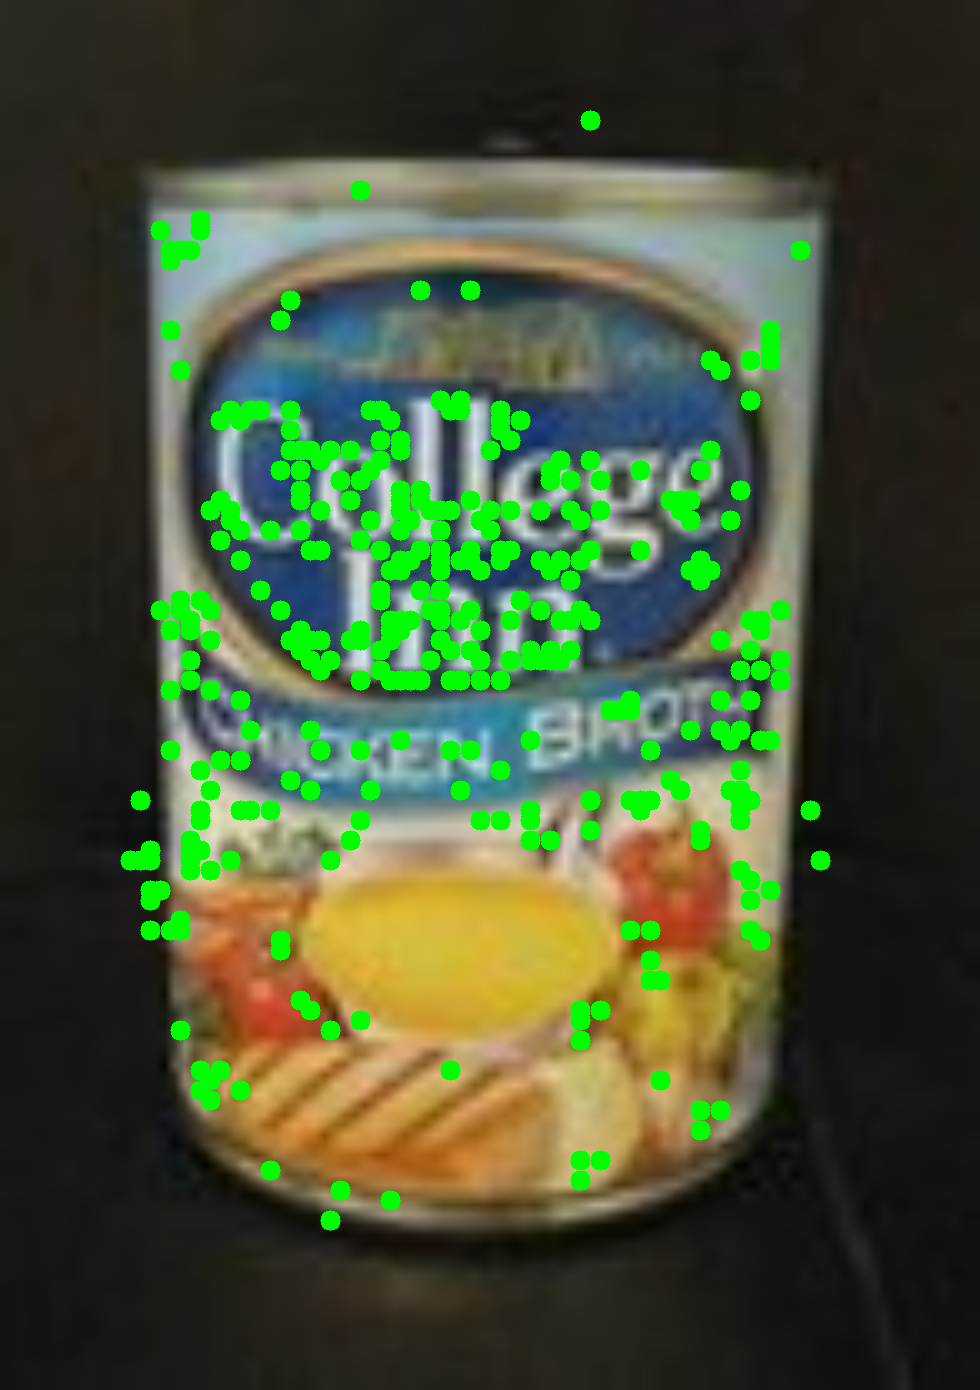
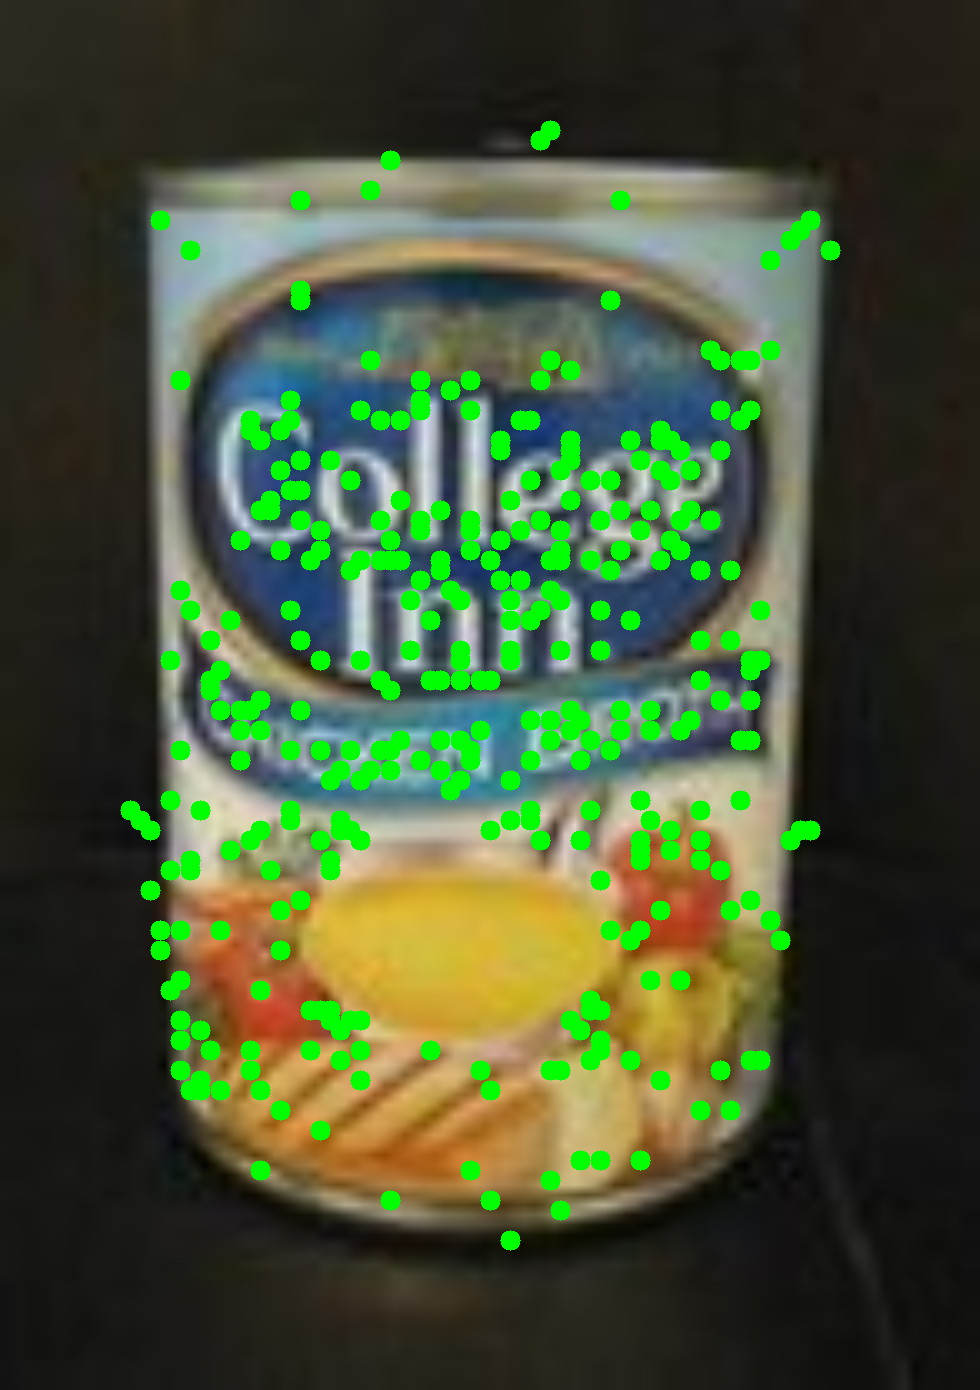
26 neighbours to 8 points in extrema detection

diff --git a/Assignments/HW2/code/keypointDetect.py b/Assignments/HW2/code/keypointDetect.py
@@ -81,7 +81,7 @@ def computePrincipalCurvature(DoG_pyramid):
     
     [output]
     * principal_curvature - size (imH, imW, len(levels) - 1) matrix where each 
-    point contains the curvature ratio R for the corresponding point in the DoG pyramid
+      point contains the curvature ratio R for the corresponding point in the DoG pyramid
     '''
 
     height, width, channels = DoG_pyramid.shape
@@ -118,52 +118,44 @@ def getLocalExtrema(DoG_pyramid, DoG_levels, principal_curvature, th_contrast=0.
     * DoG_levels - The levels of the pyramid where the blur at each level is outputs
     * principal_curvature - size (imH, imW, len(levels) - 1) matrix contains the curvature ratio R
     * th_contrast - Remove any point that is a local extremum but does not have a
-    DoG response magnitude above this threshold
+      DoG response magnitude above this threshold
     * th_r - Remove any edge-like points that have too large a principal curvature ratio
      
     [output]
     * locsDoG - N x 3 matrix where the DoG pyramid achieves a local extrema in both
-    scale and space, and also satisfies the two thresholds
+      scale and space, and also satisfies the two thresholds
     '''
     
     H, W, C = DoG_pyramid.shape
     locsDoG = []
-    kernel = 3
     
-    for level in range(1, C-1):
-        for x in range(0, H-kernel+1):
-            for y in range(0, W-kernel+1):
-                # Current pixel or center pixel of the kernel
-                cx, cy = (2*x + kernel-1)//2, (2*y + kernel-1)//2
-                
-                # Compare principal curvature ratio
-                if abs(principal_curvature[cx, cy, level]) > th_r: continue
+    for level in range(0, C):
+        for x in range(0, H):
+            for y in range(0, W):
+                # Check principal curvature ratio
+                if abs(principal_curvature[x, y, level]) > th_r: continue
                 
                 # Get scale-space neighbours
-                neighbours = DoG_pyramid[x:x+kernel, y:y+kernel, level-1:level+2]
-                
-                # Extrema positions
-                arg_max = np.unravel_index(np.argmax(neighbours), neighbours.shape) + np.asarray((x, y, level-1))
-                arg_min = np.unravel_index(np.argmin(neighbours), neighbours.shape) + np.asarray((x, y, level-1))
+                neighbours = DoG_pyramid[x-1*int(x>0):x+2*int(x<H), y-1*int(y>0):y+2*int(y<W), level].flatten()
+                neighbours = np.concatenate([neighbours, DoG_pyramid[x, y, level-1*int(level>0):level+2**int(level<C)]])
                 
                 # Check if current pixel is an extrema
-                if ((arg_max[0] != cx) and (arg_max[1] != cy) and (arg_max[2] != level)) \
-                or ((arg_min[0] != cx) and (arg_min[1] != cy) and (arg_min[2] != level)): continue
+                if (np.max(neighbours) != DoG_pyramid[x, y, level]) \
+                and (np.min(neighbours) != DoG_pyramid[x, y, level]): continue
 
-                # Compare contrast ratio
-                if (not abs(DoG_pyramid[cx, cy, level]) > th_contrast): continue
+                # Check contrast ratio
+                if (not abs(DoG_pyramid[x, y, level]) > th_contrast): continue
 
                 # Add this point of interest
                 # TODO: Swap x and y??
-                locsDoG.append([cx, cy, level])
+                locsDoG.append([x, y, level])
 
     locsDoG = np.asarray(locsDoG)
     print(locsDoG.shape)
     return locsDoG
 
-def displayPoints(img, locsDoG):
+def displayPoints(img, locsDoG, factor=10, fname=None):
     # Resize for better display
-    factor = 10
     img = cv2.resize(img, None, fx=factor, fy=factor)
     
     # Draw the interest points
@@ -171,65 +163,69 @@ def displayPoints(img, locsDoG):
         color = (int(level==1)*255, int(level==2)*255, int(level==3)*255)
         img = cv2.circle(img, (y*factor, x*factor), factor, (0, 255, 0), -1)
     
+    if fname: cv2.imwrite(fname, img)
     displayImage(img)
 
 def DoGdetector(im, sigma0=1, k=np.sqrt(2), levels=[-1, 0, 1, 2, 3, 4], th_contrast=0.03, th_r=12):
     '''
     Putting it all together
 
-    
-    Inputs          Description
-    --------------------------------------------------------------------------
-    im              Grayscale image with range [0,1].
+    [input]    
+    * im - Grayscale image with range [0, 1]
+    * sigma0 - Scale of the 0th image pyramid
+    * k - Pyramid factor (sqrt(2))
+    * levels - Levels of pyramid to construct (-1:4)
+    * th_contrast - DoG contrast threshold (0.03)
+    * th_r - Principal Ratio threshold (12)
 
-    sigma0          Scale of the 0th image pyramid.
-
-    k               Pyramid Factor.  Suggest sqrt(2).
-
-    levels          Levels of pyramid to construct. Suggest -1:4.
-
-    th_contrast     DoG contrast threshold.  Suggest 0.03.
-
-    th_r            Principal Ratio threshold.  Suggest 12.
-
-
-    Outputs         Description
-    --------------------------------------------------------------------------
-
-    locsDoG         N x 3 matrix where the DoG pyramid achieves a local extrema
-                    in both scale and space, and satisfies the two thresholds.
-
-    gauss_pyramid   A matrix of grayscale images of size (imH,imW,len(levels))
+    [output]
+    * locsDoG - N x 3 matrix where the DoG pyramid achieves a local extrema 
+      in both scale and space, and satisfies the two thresholds
+    * gauss_pyramid - A matrix of grayscale images of size (H, W, len(levels))
     '''
+
+    # Get gaussian pyramid
+    gauss_pyramid = createGaussianPyramid(im, sigma0, k, levels)
+
+    # Get DoG pyramid
+    DoG_pyr, DoG_levels = createDoGPyramid(gauss_pyramid, levels)
+    
+    # Compute principal curvature
+    pc_curvature = computePrincipalCurvature(DoG_pyr)
+    
+    # Get interest points
+    locsDoG = getLocalExtrema(DoG_pyr, DoG_levels, pc_curvature, th_contrast, th_r)
+
+    # Display the points
+    displayPoints(im, locsDoG)
 
     return locsDoG, gauss_pyramid
 
 if __name__ == '__main__':
     levels = [-1, 0, 1, 2, 3, 4]
     im = cv2.imread('../data/model_chickenbroth.jpg')
-    # im = cv2.imread('../data/chickenbroth_01.jpg')
     
+    '''
     # Test gaussian pyramid
     im_pyr = createGaussianPyramid(im)
-    # displayPyramid(im_pyr)
+    displayPyramid(im_pyr)
 
     # Test DoG pyramid
     DoG_pyr, DoG_levels = createDoGPyramid(im_pyr, levels)
-    print(DoG_pyr.shape, DoG_levels)
-    # displayPyramid(DoG_pyr)
+    displayPyramid(DoG_pyr)
     
     # Test compute principal curvature
     pc_curvature = computePrincipalCurvature(DoG_pyr)
-    print(pc_curvature.shape)
-    # displayPyramid(pc_curvature)
+    displayPyramid(pc_curvature)
     
     # Test get local extrema
     th_contrast = 0.03
     th_r = 12
     locsDoG = getLocalExtrema(DoG_pyr, DoG_levels, pc_curvature, th_contrast, th_r)
-    displayPoints(im, locsDoG)
 
-    sys.exit(0)
+    # Display the points
+    displayPoints(im, locsDoG)
+    '''
     
     # Test DoG detector
     locsDoG, gaussian_pyramid = DoGdetector(im)
